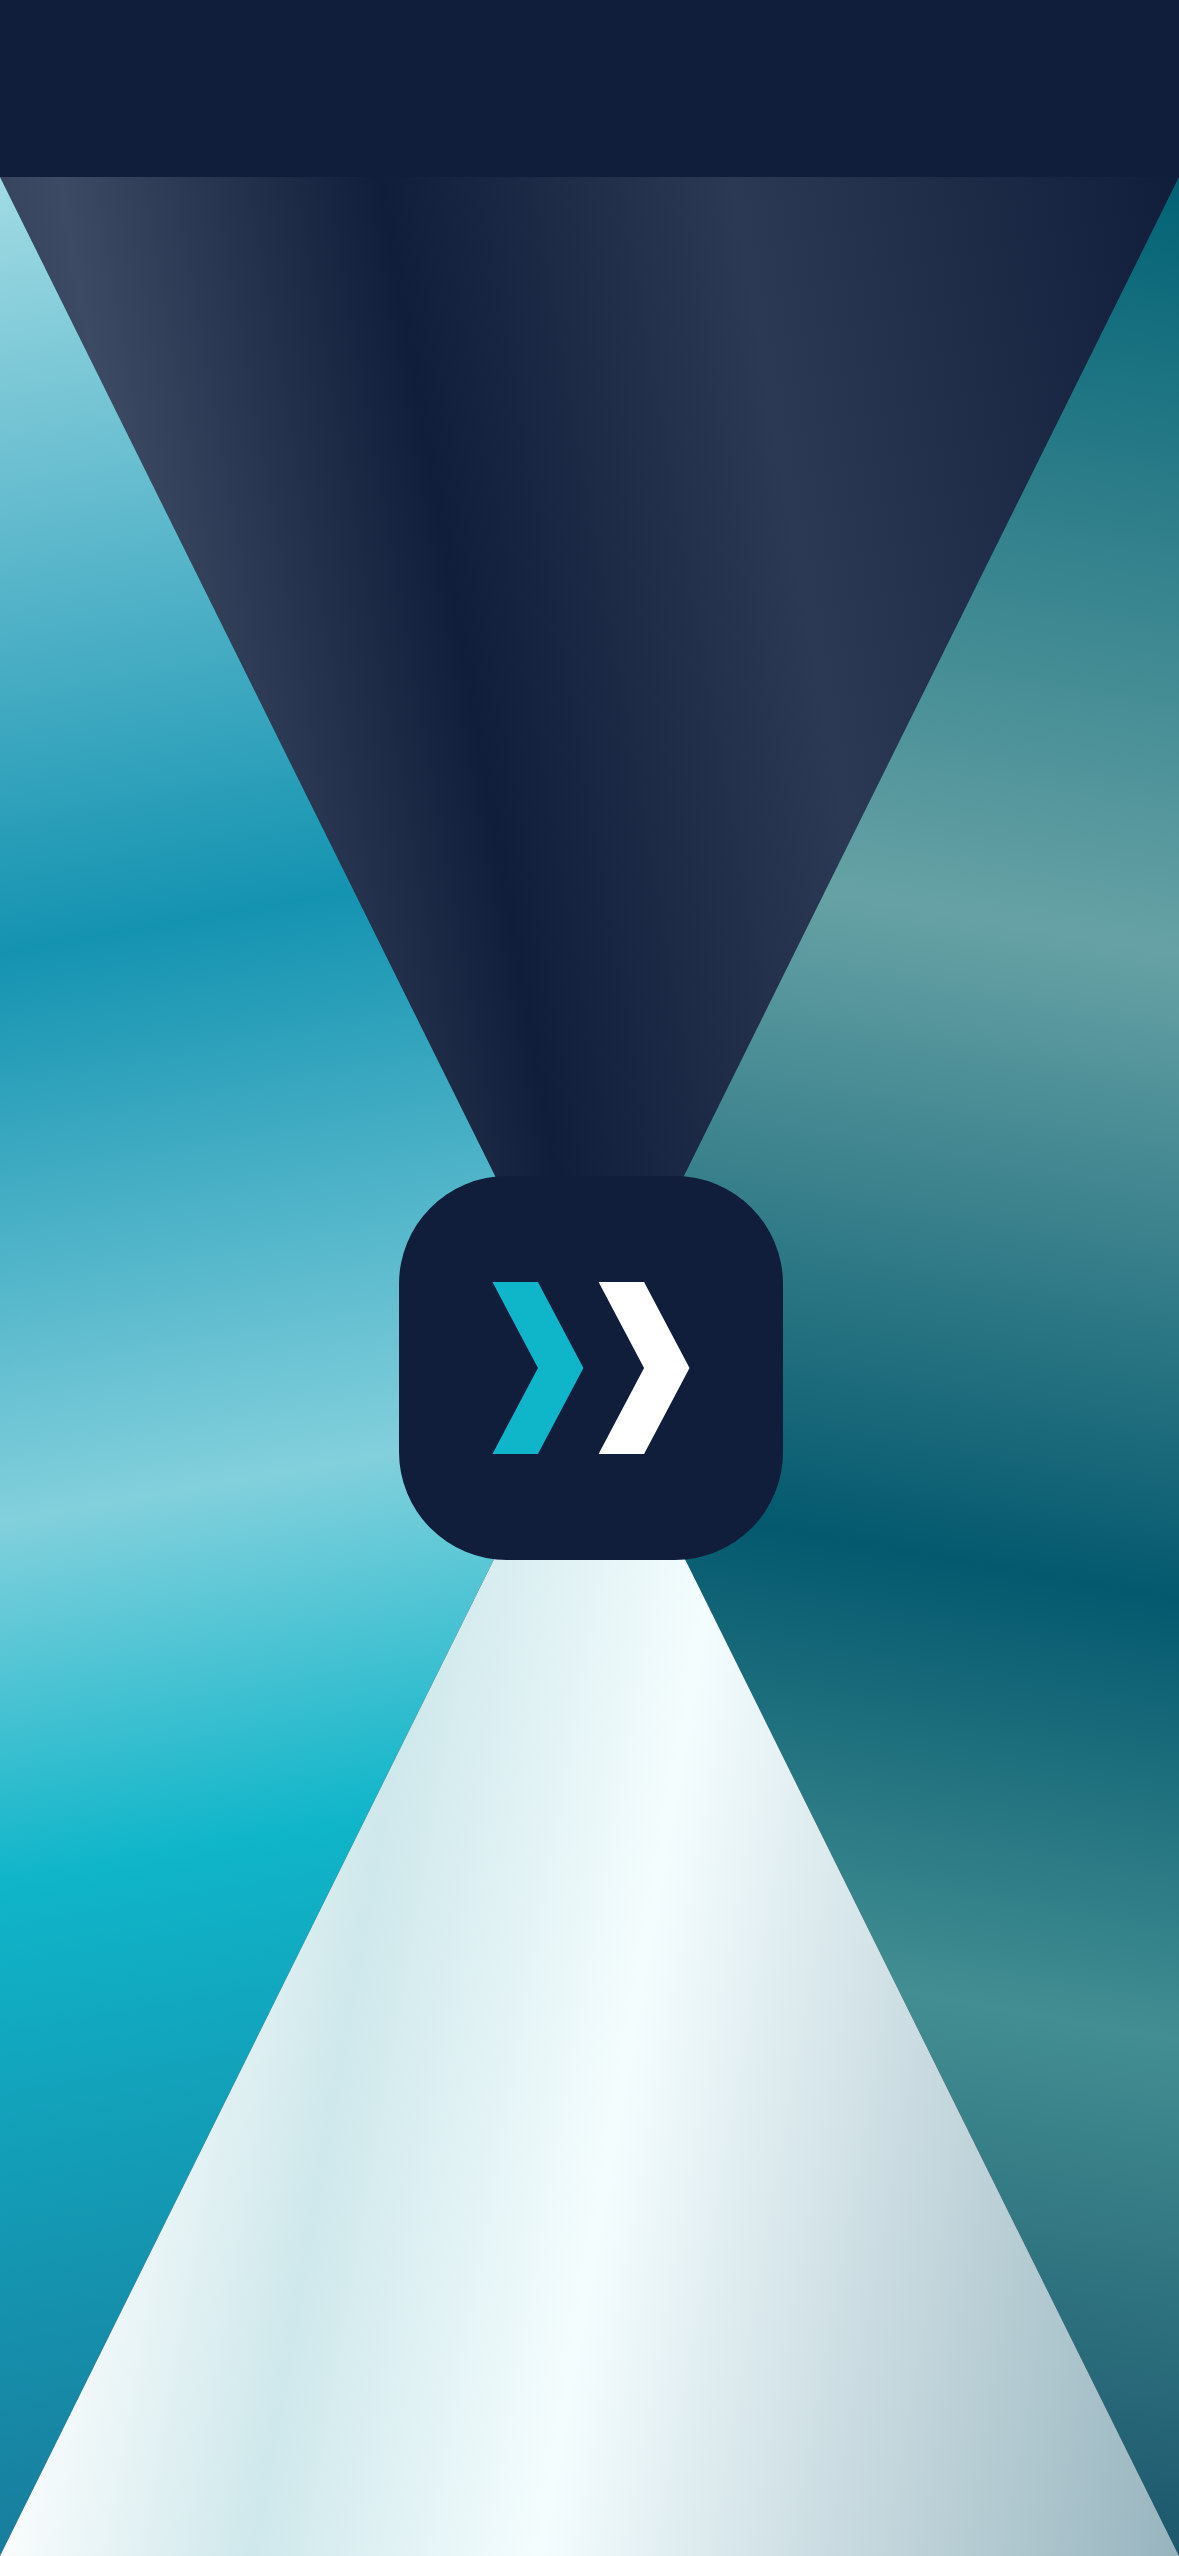
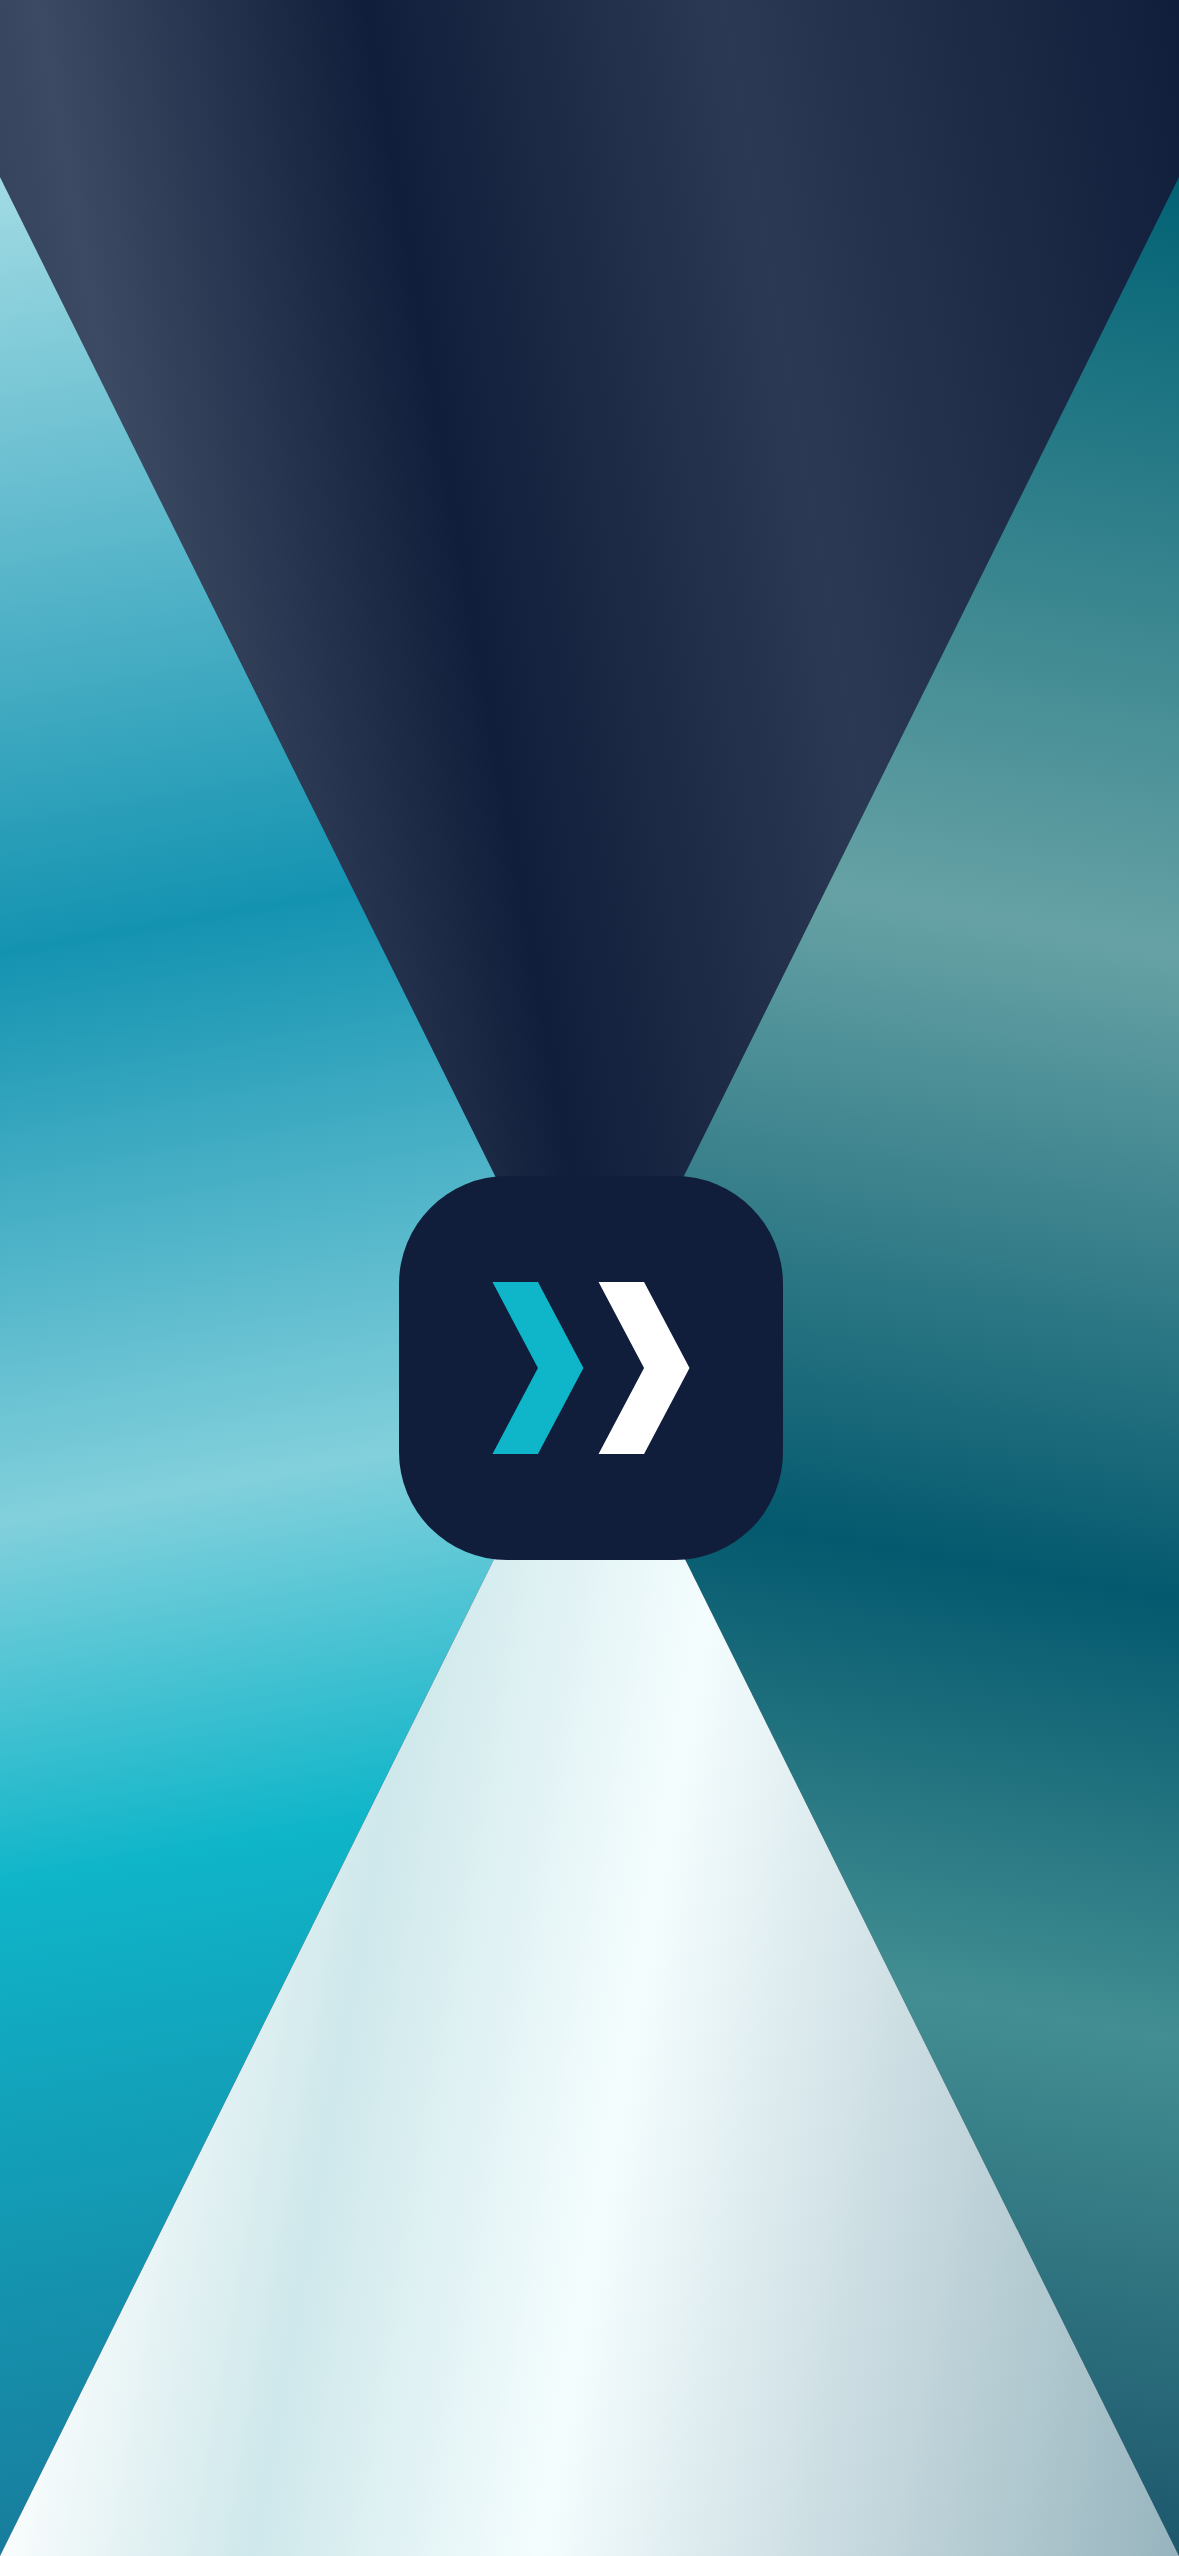
Une el triángulo oscuro de la carga con la barra de estado (D345, 0.250.1)
Mati: «hay que modificar el color para que se una». El triángulo de arriba
(.t-arriba) sube exactamente el alto de la barra de estado por detrás de
la hora y la batería: la franja más el triángulo, con el vértice en el
mismo centro de la zona. El degradé llega al borde y la franja navy lisa
queda tapada (sigue existiendo, con su alto: la mide el generador). Sin
cambios de ícono, punto de encuentro, animación, tiempos ni splash.ts.

Las once imágenes de arranque se regeneraron con el generador existente,
sin cambios, en el Chromium de Playwright 151 (el del CI), que antes
reprodujo una imagen anterior con 0 píxeles distintos. Expectativas de
píxeles (sin corte en la línea de la barra), sus sha y el hash CSP del
<style> del splash al día.

Changed region(s): [[0.0, 0.0, 0.1832, 0.0927], [0.5802, 0.0, 0.7023, 0.0927]]

diff --git a/src/arranque/imagenesDeArranque.test.ts b/src/arranque/imagenesDeArranque.test.ts
@@ -77,9 +77,10 @@ describe('🔴 D300 · las imágenes de arranque del iPhone', () => {
   });
 
   /**
-   * 🔴 Cada imagen es la pantalla de carga de ESE tamaño (D286): la franja navy mide exactamente la barra de estado (y
-   * debajo empieza el triángulo de arriba, oscuro por D330), y el ícono está en el centro de la zona: entre las flechas, navy; la
-   * flecha izquierda, cian; la derecha, blanca. Se mide en los píxeles, no en el nombre del archivo.
+   * 🔴 Cada imagen es la pantalla de carga de ESE tamaño (D286): el ícono está en el centro de la zona, debajo de la barra
+   * de estado (entre las flechas, navy; la flecha izquierda, cian; la derecha, blanca). D345 (Mati: «hay que modificar el
+   * color para que se una»): la barra ya no es una franja navy lisa; el degradado oscuro del triángulo de arriba (D330) sube
+   * hasta el borde y sigue sin corte en la línea de la barra. Se mide en los píxeles, no en el nombre del archivo.
    */
   for (const d of DISPOSITIVOS) {
     it(`${archivoDe(d)} (${d.ancho}×${d.alto}@${d.dpr}, barra ${d.barra}) es la pantalla de carga`, () => {
@@ -90,16 +91,25 @@ describe('🔴 D300 · las imágenes de arranque del iPhone', () => {
         const i = (Math.round(y * d.dpr) * png.ancho + Math.round(x * d.dpr)) * 3;
         return [png.pixeles[i]!, png.pixeles[i + 1]!, png.pixeles[i + 2]!];
       };
-      // La franja: cada píxel de sus filas, navy.
+      // La barra: cada píxel de sus filas, el degradado oscuro (ningún canal pasa de 110), no un navy liso.
       const franja = d.barra * d.dpr;
+      const canal = (x: number, y: number, k: number) => png.pixeles[(y * png.ancho + x) * 3 + k]!;
       for (let y = 0; y < franja; y += 1) {
         for (let x = 0; x < png.ancho; x += 1) {
-          const i = (y * png.ancho + x) * 3;
-          if (png.pixeles[i] !== NAVY[0] || png.pixeles[i + 1] !== NAVY[1] || png.pixeles[i + 2] !== NAVY[2]) {
-            throw new Error(`${archivoDe(d)}: la franja no es navy en (${x}, ${y})`);
+          if (Math.max(canal(x, y, 0), canal(x, y, 1), canal(x, y, 2)) >= 110) {
+            throw new Error(`${archivoDe(d)}: la barra no es el degradado oscuro en (${x}, ${y})`);
           }
         }
       }
+      const filaDeArriba = Array.from({ length: png.ancho }, (_, x) => canal(x, 1, 2));
+      expect(Math.max(...filaDeArriba) - Math.min(...filaDeArriba), `${archivoDe(d)}: la barra es lisa, sin el degradado`).toBeGreaterThan(20);
+      // Sin corte en la línea de la barra: lejos de las esquinas (donde nacen las diagonales), la última fila de la barra y
+      // la primera de la zona casi no difieren. Con la franja lisa de antes, el salto llegaba a 69.
+      let salto = 0;
+      for (let x = Math.round(png.ancho * 0.2); x < Math.round(png.ancho * 0.8); x += 1) {
+        for (let k = 0; k < 3; k += 1) salto = Math.max(salto, Math.abs(canal(x, franja - 1, k) - canal(x, franja, k)));
+      }
+      expect(salto, `${archivoDe(d)}: el degradado se corta en la línea de la barra`).toBeLessThanOrEqual(6);
       // Justo debajo, el triángulo de arriba: el degradado navy de D330.
       const debajo = pixel(d.ancho / 2, d.barra + 1 / d.dpr);
       expect(Math.max(...debajo), `${archivoDe(d)}: debajo de la franja no empieza el triángulo oscuro`).toBeLessThan(110);

diff --git a/scripts/artefactos.test.ts b/scripts/artefactos.test.ts
@@ -99,17 +99,17 @@ const BINARIOS_AUTORIZADOS = [
   // D300 (adenda del Bibliotecario, 2026-10-13T00:35:00Z) · las imágenes de arranque del iPhone, una por tamaño. Las
   // dibuja `scripts/imagenes-de-arranque.mjs` desde `index.html`, así que el repo es su upstream; el SHA-256 es el MEDIDO
   // de lo que escribió el generador.
[22 lines of base64/hex data omitted]
 ] as const;
 
 /**

diff --git a/src/splash.test.ts b/src/splash.test.ts
@@ -161,7 +161,8 @@ describe('🔴 D292 · la pantalla de carga siempre, al menos 2 segundos (Mati, 
 
     it('cuatro triángulos, con los degradados superior e inferior intercambiados por D330', () => {
       const triangulos = [
-        ['t-arriba', 'polygon(0 0, 100% 0, 50% 50%)', 'linear-gradient(80deg, #101e3b 0%, #3d4a63 30%, #101e3b 50%, #2c3954 72%, #101e3b 100%)'],
+        // D345 · el de arriba sube por detrás de la barra de estado: la franja más el triángulo, con el vértice en el centro.
+        ['t-arriba', 'polygon(0 0, 100% 0, 100% env(safe-area-inset-top), 50% calc(50% + env(safe-area-inset-top) / 2), 0 env(safe-area-inset-top))', 'linear-gradient(80deg, #101e3b 0%, #3d4a63 30%, #101e3b 50%, #2c3954 72%, #101e3b 100%)'],
         ['t-izq', 'polygon(0 0, 50% 50%, 0 100%)', 'linear-gradient(170deg, #a1dbe4 0%, #1493b1 30%, #82d0dc 52%, #0fb5c9 66%, #1b6b8f 100%)'],
         ['t-der', 'polygon(100% 0, 100% 100%, 50% 50%)', 'linear-gradient(190deg, #016274 0%, #66a2a5 30%, #04596e 55%, #428e92 72%, #0d415d 100%)'],
         ['t-abajo', 'polygon(0 100%, 50% 50%, 100% 100%)', 'linear-gradient(100deg, #abc7ce 0%, #ffffff 24%, #cfe8eb 42%, #f4fdfe 60%, #97b4be 100%)'],
@@ -176,10 +177,13 @@ describe('🔴 D292 · la pantalla de carga siempre, al menos 2 segundos (Mati, 
       expect(regla('#splash .t')).toMatch(/position: absolute;\s*inset: 0;/);
     });
 
-    it('la franja y la zona arrancan debajo de la barra de estado', () => {
+    it('la franja y la zona arrancan debajo de la barra de estado; D345 · el triángulo de arriba sube y tapa la franja', () => {
       expect(splash).toContain('<div class="carga__franja"></div>');
       expect(regla('#splash .carga__franja')).toContain('height: env(safe-area-inset-top);');
       expect(regla('#splash .carga__zona')).toContain('top: env(safe-area-inset-top);');
+      // Sube exactamente el alto de la barra, y va después de la franja en el DOM: la pinta encima.
+      expect(regla('#splash .t-arriba')).toContain('top: calc(-1 * env(safe-area-inset-top));');
+      expect(splash.indexOf('class="carga__franja"')).toBeLessThan(splash.indexOf('class="t t-arriba"'));
       expect(INDEX).toContain('viewport-fit=cover');
       expect(INDEX).toContain('<meta name="apple-mobile-web-app-status-bar-style" content="black-translucent" />');
     });

diff --git a/index.html b/index.html
@@ -103,7 +103,9 @@
       }
       /* La franja de la barra de estado: con la app instalada, la hora y la
          batería van en blanco encima (`black-translucent` y `viewport-fit=cover`
-         ya están arriba). En el navegador mide 0. */
+         ya están arriba). En el navegador mide 0. D345 (Mati, «hay que modificar
+         el color para que se una»): ya no se ve; el triángulo oscuro de arriba
+         sube por detrás de la barra y la tapa, así el degradé llega al borde. */
       #splash .carga__franja {
         position: absolute;
         top: 0;
@@ -125,8 +127,12 @@
         position: absolute;
         inset: 0;
       }
+      /* D345 · sube el alto de la barra de estado (en el navegador, 0): el
+         rectángulo de la franja más el triángulo de siempre, con el vértice en el
+         mismo centro de la zona (50% de la caja alta + la mitad de la barra). */
       #splash .t-arriba {
-        clip-path: polygon(0 0, 100% 0, 50% 50%);
+        top: calc(-1 * env(safe-area-inset-top));
+        clip-path: polygon(0 0, 100% 0, 100% env(safe-area-inset-top), 50% calc(50% + env(safe-area-inset-top) / 2), 0 env(safe-area-inset-top));
         background: linear-gradient(80deg, #101e3b 0%, #3d4a63 30%, #101e3b 50%, #2c3954 72%, #101e3b 100%);
       }
       #splash .t-izq {

diff --git a/vercel.ts b/vercel.ts
@@ -138,7 +138,7 @@ const headers = [
  * Artefacto desconocido: NINGUNA cabecera, igual que rewrites y headers.
  */
 const HASH_SCRIPT_IDIOMA_LANDING = "'sha256-0q+B8AZ70OFIwdyvViSs6/v+EDiwpZvDJ86Uf9Aiupc='";
-const HASH_STYLE_SPLASH_APP = "'sha256-4/8wDbLvwJO3QD+c8rfdttoUjQyw16NLER03HIN8AYI='";
+const HASH_STYLE_SPLASH_APP = "'sha256-y5elns5JA/JsnAsq5gWU51sZzXWlo2tTb7yIX8VP6q0='";
 /** El `<style>` que inyecta `gsi/client` (medido el 2026-09-26, igual al de producción; re-medido el 2026-09-28). */
 const HASH_STYLE_GIS = "'sha256-RU4sU0AaS8IBGZx8XrGt/pa9A5SLA3dQszGeqT5L3Kw='";
 

diff --git a/CHANGELOG.md b/CHANGELOG.md
@@ -1,3 +1,10 @@
+# 0.250.1 · 2026-10-17
+
+- D345: en la pantalla de carga, el triángulo oscuro de arriba sube por detrás de la barra de estado (la hora y la batería), así el degradé llega al borde y ya no lo corta una franja navy lisa. Lo pidió Mati: «hay que modificar el color para que se una».
+- Se mantienen el ícono, el punto de encuentro de los triángulos, la animación, los tiempos y `splash.ts`. La franja sigue con el alto de la barra, tapada por el triángulo.
+- Las once imágenes de arranque de iPhone se regeneraron con el generador existente, sin cambios, y el Chromium de Playwright del CI. Antes se comprobó que ese navegador reproduce una imagen anterior con 0 píxeles distintos.
+- Se actualizaron sus expectativas, sus sha y el hash CSP del `<style>` del splash.
+
 # 0.250.0 · 2026-10-14
 
 - D330: pantalla de carga con el degradado azul oscuro arriba y el claro abajo; intercambia los dos degradados existentes completos, conservando logo, laterales turquesa, geometría, animación y tiempos.
